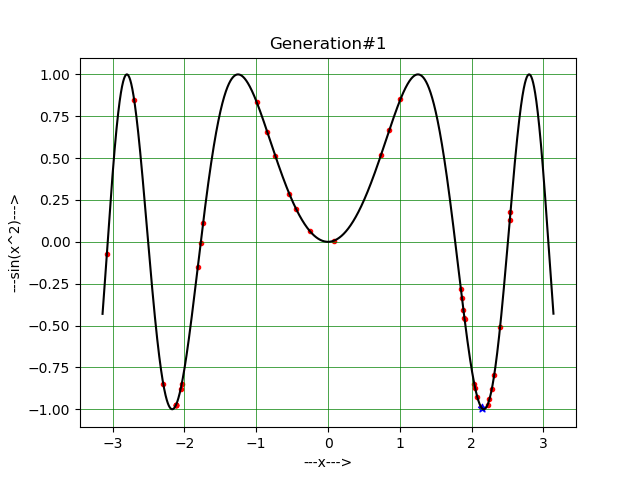
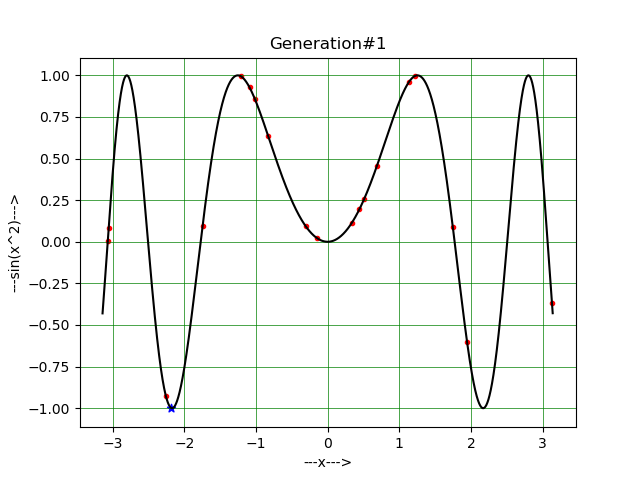
Backup commit

diff --git a/Basic_GA.py b/Basic_GA.py
@@ -23,7 +23,7 @@ import os
 
 pc = 0.4                                                                        # Probability of Crossover
 pm = 0.2                                                                        # Probability of mutation
-population_size = 40                                                            # Number of Individuals
+population_size = 20                                                            # Number of Individuals
 num_chromosomes = 1                                                             # Number of Chromosomes
 Generation = -1                                                                 # Generation Count
 avg = 0.3                                                                       # Averaging Factor
@@ -104,7 +104,7 @@ def visualize():
     plt.grid(color='GREEN', linestyle='-', linewidth=0.5)
 
     plt.savefig("Output\\Generation#"+str(Generation)+".png")
-    plt.pause(0.5)      # Comment this line if you wanna see the output after the run instead of during the run
+    plt.pause(0.25)      # Comment this line if you wanna see the output after the run instead of during the run
 
 
 def parent_selection():
